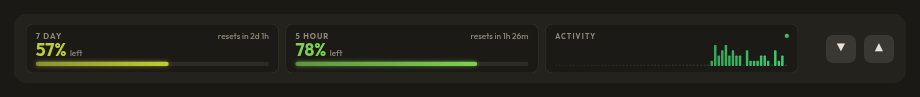
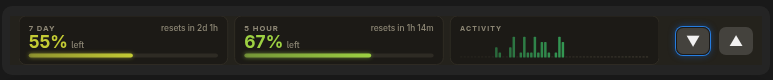
README: a section per mod, real screenshots of ribbon-plus in each size

diff --git a/README.md b/README.md
@@ -1,11 +1,28 @@
 # rMods
 
-Two mods for Claude Code.
+Two mods for Claude Code: **mod-curator** and **ribbon-plus**. Install steps are at the end.
 
-- **mod-curator**: `/mods` opens a pane listing your installed plugins, with Turn on / Turn off and Remove buttons.
-- **ribbon-plus**: a fork of [ribbon](https://github.com/robonuggets/ribbon) (MIT). A usage band above the prompt in three sizes (tiny, mid and large), with bars that run from green to red as a window drains, recent activity, and session cost and burn rate. Arrows or `/ribbon-plus` switch the size, and the choice is remembered. See [its README](plugins/ribbon-plus/README.md) for screenshots of each size.
+## mod-curator
 
-![ribbon-plus in its large size](plugins/ribbon-plus/assets/large.png)
+`/mods` opens a pane listing your installed plugins. Each one has buttons to turn it on or off, or to remove it (Remove asks for a second press first). Refresh re-reads the list. Changes apply after `/reload-plugins`.
+
+## ribbon-plus
+
+A fork of [ribbon](https://github.com/robonuggets/ribbon) (MIT). A usage band above the prompt that shows how much of your 7-day and 5-hour usage is left, with bars that run from green to red as a window drains. It comes in three sizes. The arrows on the right move between them, `/ribbon-plus` cycles through them, and the size you pick is remembered.
+
+**Small:** one row with bars for each window, the cache countdown and an activity strip.
+
+![ribbon-plus, small](plugins/ribbon-plus/assets/tiny.png)
+
+**Medium:** a card for each window with the percent left, a bar and the reset time, plus a card of recent activity.
+
+![ribbon-plus, medium](plugins/ribbon-plus/assets/mid.png)
+
+**Large:** the cards over a full-width panel with the prompt cache, what the next message costs on each model, and the session's cost, length, burn rate, context fill, warm streak and turn pace.
+
+![ribbon-plus, large](plugins/ribbon-plus/assets/large.png)
+
+More detail is in [its README](plugins/ribbon-plus/README.md).
 
 ## Install
 

diff --git a/plugins/ribbon-plus/README.md b/plugins/ribbon-plus/README.md
@@ -31,6 +31,4 @@ The mid cards over a full-width panel: how long the cache has been idle, how muc
 - The drawings are sized for the Claude desktop app. The terminal gets the text form of tiny and mid.
 - Turn the original ribbon off before installing this, so two bands don't show.
 
-The screenshots are renders of the mod's own drawings with sample figures.
-
 The embedded font is [Outfit](https://github.com/Outfitio/Outfit-Fonts), under the SIL Open Font License 1.1.
